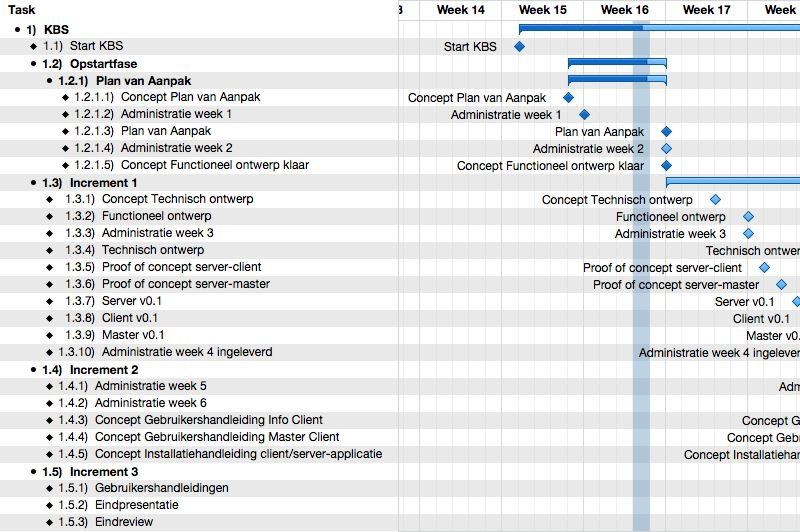
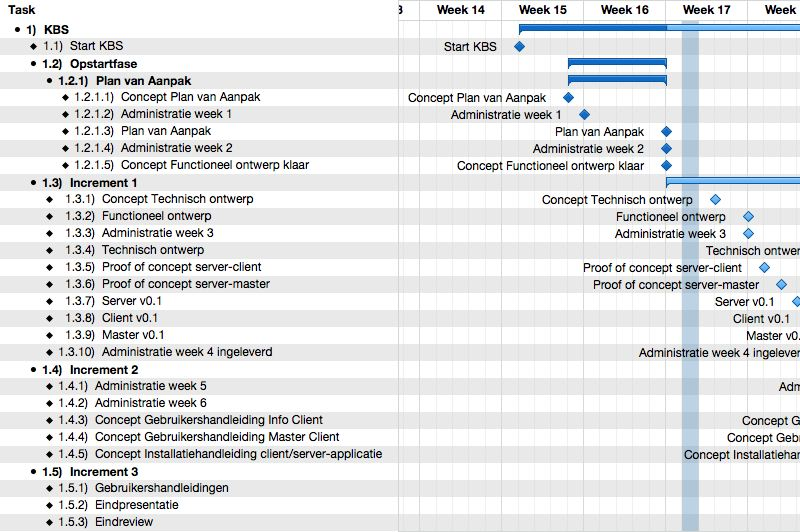
Updated planning to 24 april

Changed region(s): [[0.7812, 0.0301, 0.875, 1.0]]

diff --git a/planning/ISM2IKBS.V111.html b/planning/ISM2IKBS.V111.html
@@ -21,7 +21,7 @@
                 <td>10-04-12</td>
                 <td>06-06-12</td>
                 <td>144h</td>
-                <td>20,83%</td>
+                <td>25%</td>
                 <td></td>
                 <td></td>
             </tr>
@@ -30,7 +30,7 @@
                 <td>10-04-12</td>
                 <td>06-06-12</td>
                 <td>144h</td>
-                <td>20,83%</td>
+                <td>25%</td>
                 <td></td>
                 <td></td>
             </tr>
@@ -48,7 +48,7 @@
                 <td>13-04-12</td>
                 <td>23-04-12</td>
                 <td>24h</td>
-                <td>80%</td>
+                <td>100%</td>
                 <td></td>
                 <td></td>
             </tr>
@@ -57,7 +57,7 @@
                 <td>13-04-12</td>
                 <td>23-04-12</td>
                 <td>24h</td>
-                <td>80%</td>
+                <td>100%</td>
                 <td></td>
                 <td></td>
             </tr>
@@ -93,7 +93,7 @@
                 <td>23-04-12</td>
                 <td>23-04-12</td>
                 <td></td>
-                <td>0%</td>
+                <td>100%</td>
                 <td></td>
                 <td></td>
             </tr>
@@ -297,7 +297,7 @@
             </tr>
             </table>
         <p/>
-        <p class="footer">Exported 19-04-12</p>
+        <p class="footer">Exported 24-04-12</p>
         <p class="footer">OmniPlan&nbsp;1.7&nbsp;by <a href="http://www.omnigroup.com">The Omni Group</a></p>
     </body>
 </html>

diff --git a/planning/index.html b/planning/index.html
@@ -248,7 +248,7 @@ img.icon
                         <td class="data-content-big">06-06-12</td>
                         <td class="data-content-big"></td>
                         <td class="data-content-big"></td>
-                        <td class="data-content-big">21%</td>
+                        <td class="data-content-big">25%</td>
                     </tr>
                 </table>
             </div>
@@ -329,7 +329,7 @@ img.icon
                     </table>
             </div>
         </div>
-        <p class="footer">Exported 19-04-12</p>
+        <p class="footer">Exported 24-04-12</p>
         <p class="footer">OmniPlan&nbsp;1.7&nbsp;by <a href="http://www.omnigroup.com">The Omni Group</a></p>
 	</body>
 </html>

diff --git a/planning/ISM2IKBS.V111Resources.html b/planning/ISM2IKBS.V111Resources.html
@@ -56,7 +56,7 @@
             
             </table>
         <p/>
-        <p class="footer">Exported 19-04-12</p>
+        <p class="footer">Exported 24-04-12</p>
         <p class="footer">OmniPlan&nbsp;1.7&nbsp;by <a href="http://www.omnigroup.com">The Omni Group</a></p>
     </body>
 </html>
